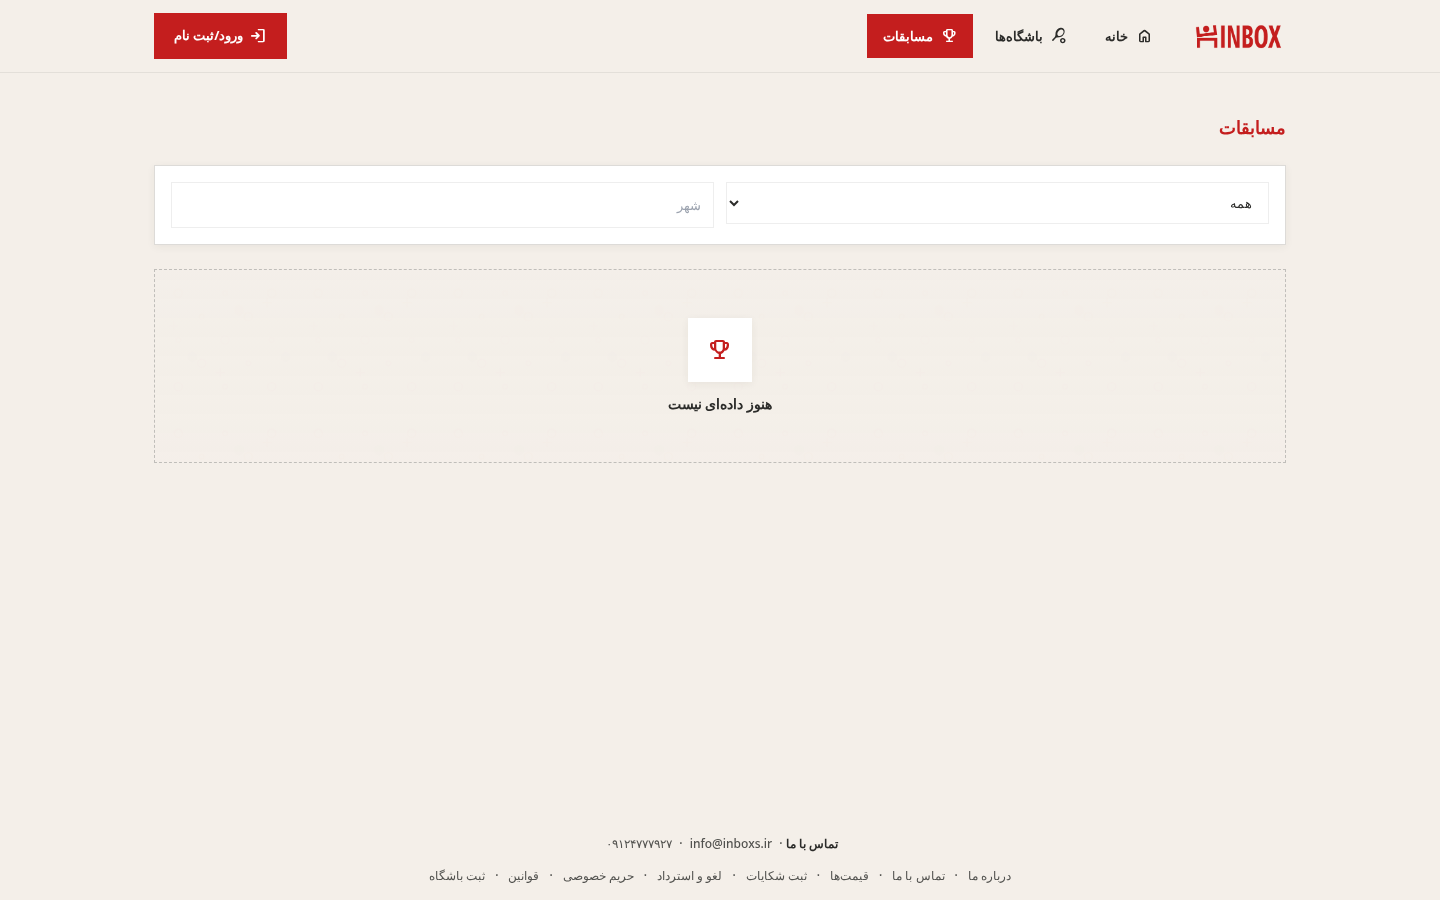
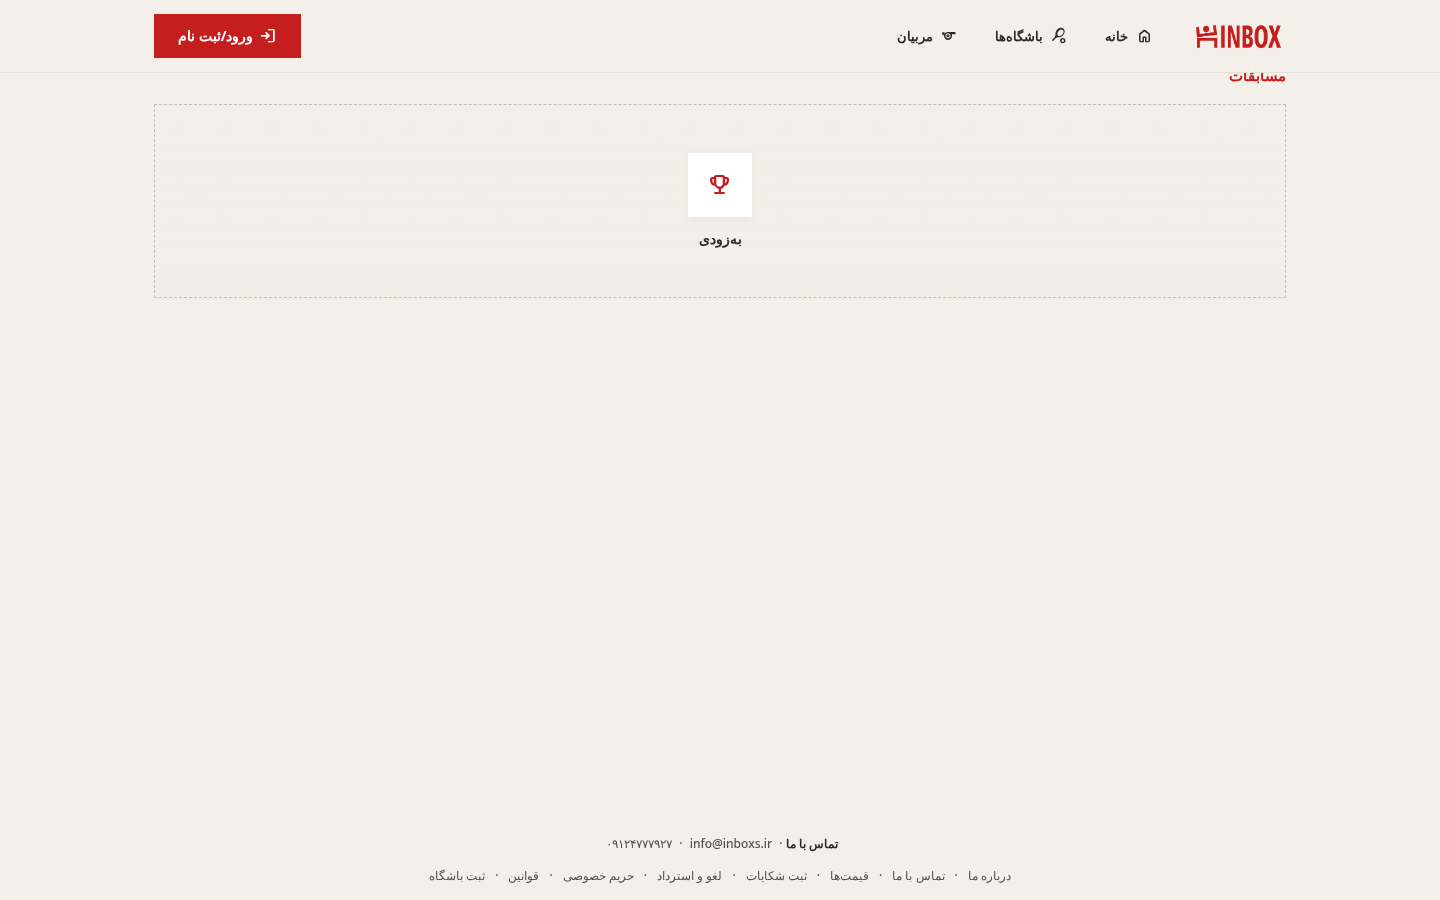
Competitions (/competitions): SoT .rh3 title size/color/spacing — visual only

diff --git a/app/pages/competitions/index.vue b/app/pages/competitions/index.vue
@@ -51,9 +51,9 @@ async function applyFilters() {
   <div class="tail-page-stack animate-fade-in">
     <CanvaPublicChrome back-to="/" />
 
-    <div class="canva-clubs-section-head">
+    <div class="canva-clubs-section-head comp-sot-head">
       <div class="canva-clubs-section-copy">
-        <h1 class="canva-clubs-section-title">{{ t('competitions.title') }}</h1>
+        <h1 class="canva-clubs-section-title comp-sot-title">{{ t('competitions.title') }}</h1>
       </div>
     </div>
 
@@ -139,3 +139,9 @@ async function applyFilters() {
     </template>
   </div>
 </template>
+
+<style scoped>
+/* SoT pages['competitions']: .rh3 15px #c41e1e, tight under header */
+.comp-sot-head { margin-top: -24px !important; margin-bottom: -6px !important; padding-top: 0 !important; }
+.comp-sot-title { font-size: 15px; line-height: 1.4; color: #c41e1e; }
+</style>
